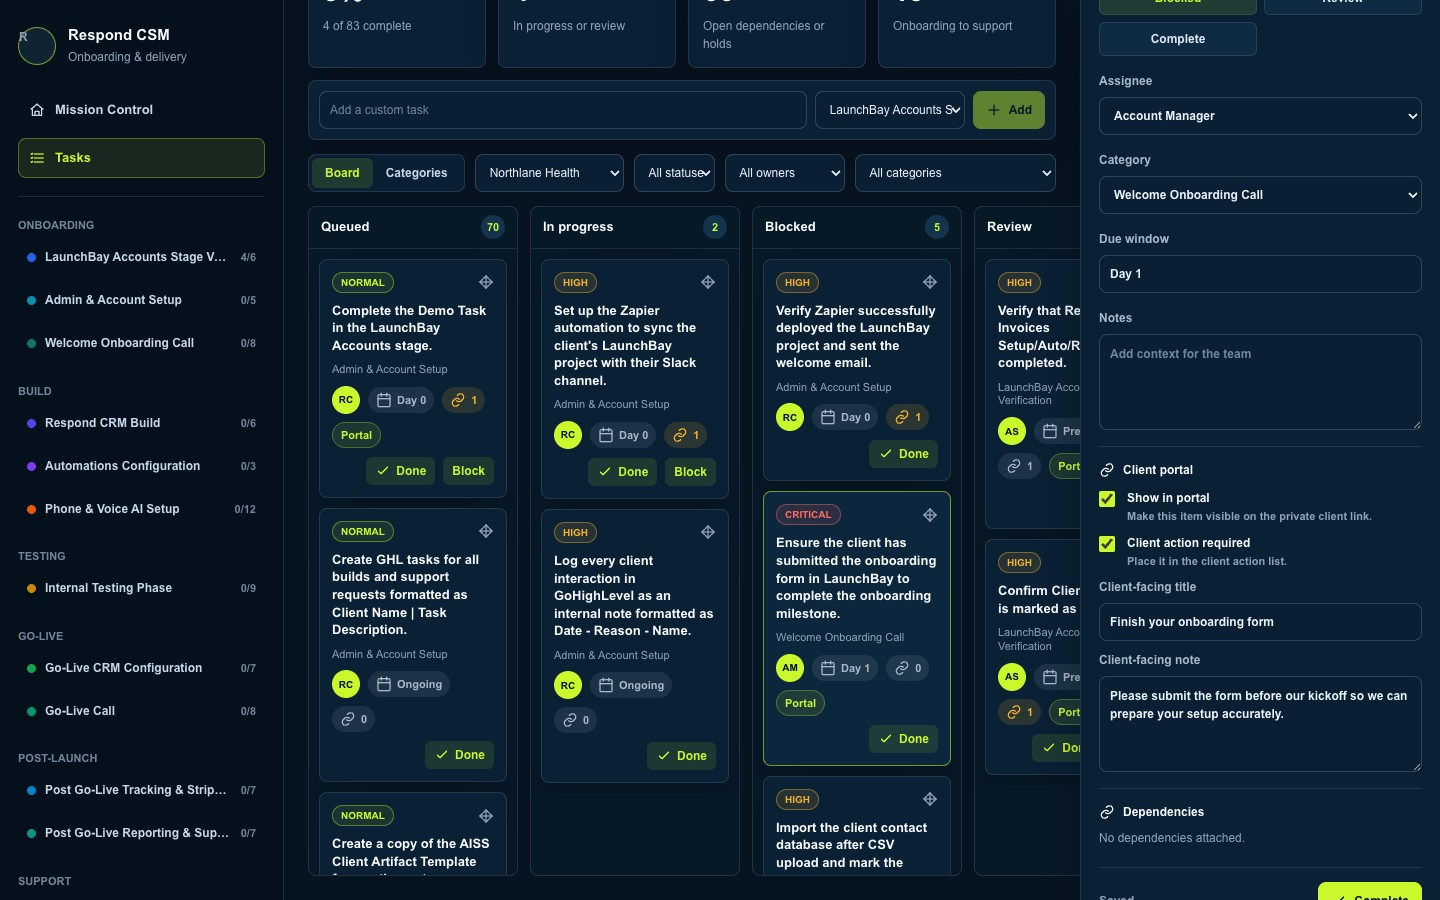
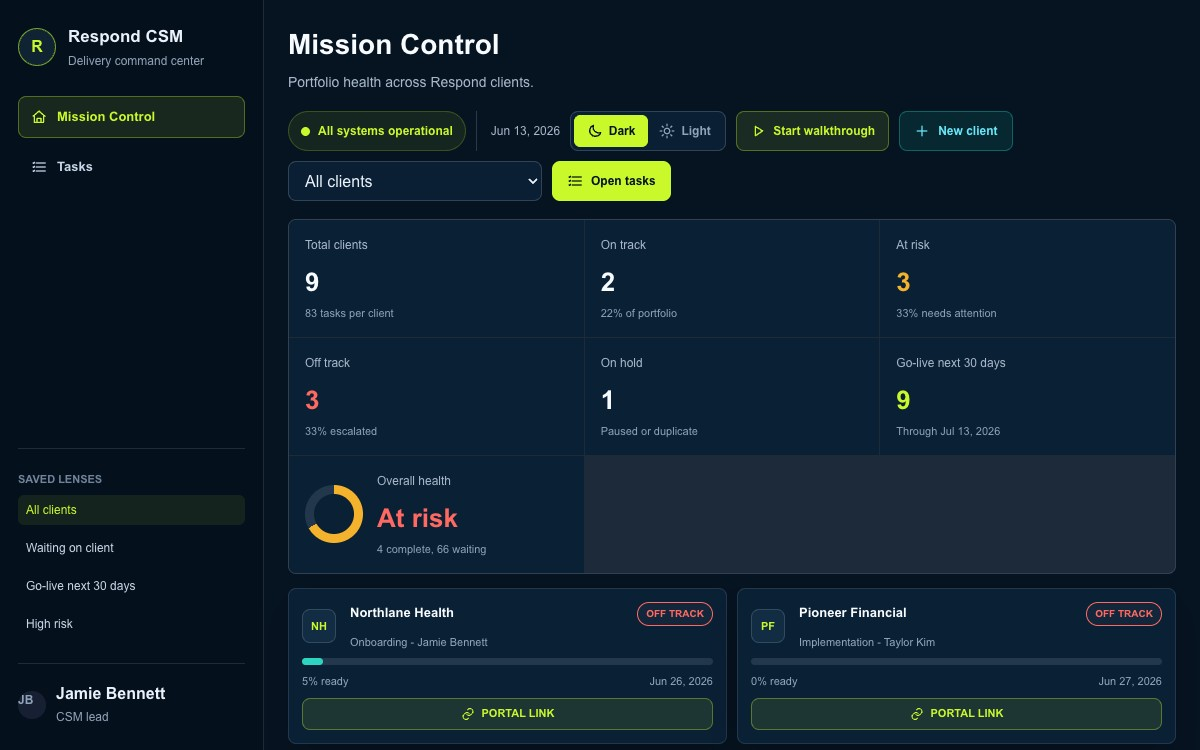
Surface client portal links on cards

diff --git a/app/globals.css b/app/globals.css
@@ -631,16 +631,16 @@ button:disabled {
 }
 
 .mission-client-card {
-  display: grid;
-  grid-template-columns: 38px minmax(0, 1fr) auto;
-  align-items: center;
-  gap: 8px 10px;
+  display: flex;
+  position: relative;
+  align-items: stretch;
+  flex-direction: column;
   min-height: 132px;
+  overflow: hidden;
   border: 1px solid rgba(148, 163, 184, 0.18);
   border-radius: 8px;
   background: #0a2035;
   color: #dce8f6;
-  padding: 13px;
   text-align: left;
   box-shadow: 0 18px 40px rgba(0, 0, 0, 0.18);
 }
@@ -649,6 +649,28 @@ button:disabled {
 .mission-client-card.active {
   border-color: rgba(193, 255, 36, 0.55);
   background: #0c263d;
+}
+
+.mission-client-card-main {
+  display: grid;
+  flex: 1;
+  grid-template-columns: 38px minmax(0, 1fr) auto;
+  align-items: center;
+  gap: 8px 10px;
+  width: 100%;
+  border: 0;
+  background: transparent;
+  color: inherit;
+  padding: 13px 13px 8px;
+  font: inherit;
+  text-align: left;
+  cursor: pointer;
+}
+
+.mission-client-card-main:focus-visible,
+.mission-client-portal-link:focus-visible {
+  outline: 2px solid #c9f82b;
+  outline-offset: -2px;
 }
 
 .mission-client-code {
@@ -703,6 +725,34 @@ button:disabled {
   grid-column: 1 / -1;
   justify-content: space-between;
   gap: 8px;
+}
+
+.mission-client-portal-link {
+  display: inline-flex;
+  align-items: center;
+  justify-content: center;
+  gap: 7px;
+  margin: 0 13px 13px;
+  border: 1px solid rgba(201, 248, 43, 0.34);
+  border-radius: 8px;
+  background: rgba(201, 248, 43, 0.1);
+  color: #c9f82b;
+  padding: 8px 10px;
+  font-size: 11px;
+  font-weight: 850;
+  line-height: 1;
+  text-decoration: none;
+  text-transform: uppercase;
+}
+
+.mission-client-portal-link:hover {
+  border-color: rgba(201, 248, 43, 0.72);
+  background: rgba(201, 248, 43, 0.16);
+}
+
+.mission-client-portal-link svg {
+  width: 14px;
+  height: 14px;
 }
 
 .client-health,
@@ -1220,6 +1270,17 @@ button:disabled {
 
 .mission-shell-light .mission-progress-track {
   background: #dbe4ee;
+}
+
+.mission-shell-light .mission-client-portal-link {
+  border-color: #bed3fb;
+  background: #eef5ff;
+  color: #174ac9;
+}
+
+.mission-shell-light .mission-client-portal-link:hover {
+  border-color: #8fb3f8;
+  background: #e0edff;
 }
 
 .mission-shell-light .mission-panel-head {

diff --git a/app/components/RespondDashboard.tsx b/app/components/RespondDashboard.tsx
@@ -813,24 +813,30 @@ function MissionControl({
 
         <section className="mission-client-grid" aria-label="Client portfolio">
           {clientCards.map((client) => (
-            <button
-              type="button"
+            <article
               key={client.id}
               className={selectedClientId === client.id ? "mission-client-card active" : "mission-client-card"}
-              onClick={() => chooseClient(client.id)}
             >
-              <span className="mission-client-code">{client.code}</span>
-              <span className="mission-client-name">{client.name}</span>
-              <span className={`client-health client-health-${client.health}`}>{clientHealthLabels[client.health]}</span>
-              <span className="mission-client-meta">{client.phase} - {client.owner}</span>
-              <span className="mission-progress-track">
-                <span style={{ width: `${client.progress}%` }} />
-              </span>
-              <span className="mission-client-foot">
-                <span>{client.progress}% ready</span>
-                <span>{client.goLiveLabel}</span>
-              </span>
-            </button>
+              <button type="button" className="mission-client-card-main" onClick={() => chooseClient(client.id)}>
+                <span className="mission-client-code">{client.code}</span>
+                <span className="mission-client-name">{client.name}</span>
+                <span className={`client-health client-health-${client.health}`}>{clientHealthLabels[client.health]}</span>
+                <span className="mission-client-meta">{client.phase} - {client.owner}</span>
+                <span className="mission-progress-track">
+                  <span style={{ width: `${client.progress}%` }} />
+                </span>
+                <span className="mission-client-foot">
+                  <span>{client.progress}% ready</span>
+                  <span>{client.goLiveLabel}</span>
+                </span>
+              </button>
+              {client.portalToken ? (
+                <a className="mission-client-portal-link" href={`/portal/${client.portalToken}`} target="_blank" rel="noreferrer">
+                  <Icon name="link" />
+                  Portal link
+                </a>
+              ) : null}
+            </article>
           ))}
         </section>
 